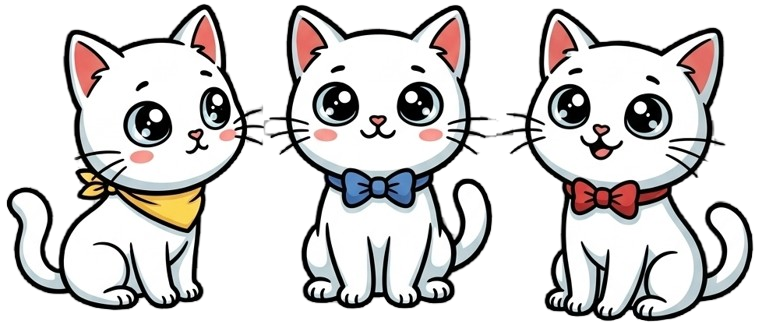
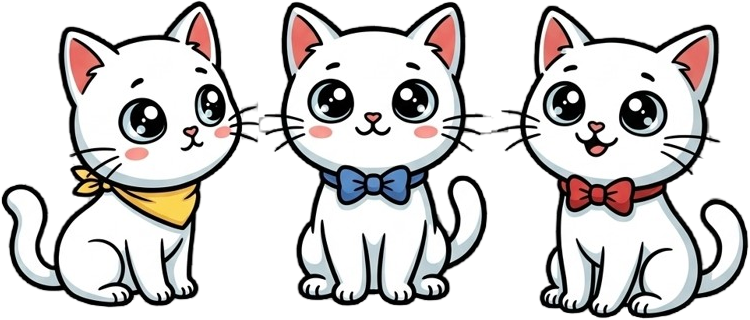
TipRecipientStep: crop image transparent strip, translate-y-3 so feet touch border

Changed region(s): [[0.0, 0.0, 1.0, 1.0], [0.276, 0.5, 0.3067, 0.5312]]

diff --git a/app/components/support/TipRecipientStep.tsx b/app/components/support/TipRecipientStep.tsx
@@ -112,7 +112,7 @@ export function TipRecipientStep({
 
       <div className="relative flex-1 overflow-hidden">
         {/* eslint-disable-next-line @next/next/no-img-element */}
-        <img src="/tip-character.png" alt="" aria-hidden="true" className="w-full max-h-full object-contain object-bottom" />
+        <img src="/tip-character.png" alt="" aria-hidden="true" className="w-full max-h-full translate-y-3 object-contain object-bottom" />
         {showTermsError && (
           <p role="alert" className="absolute left-0 right-0 top-2 px-2 text-center text-[12px] font-semibold text-destructive">
             {isPl
